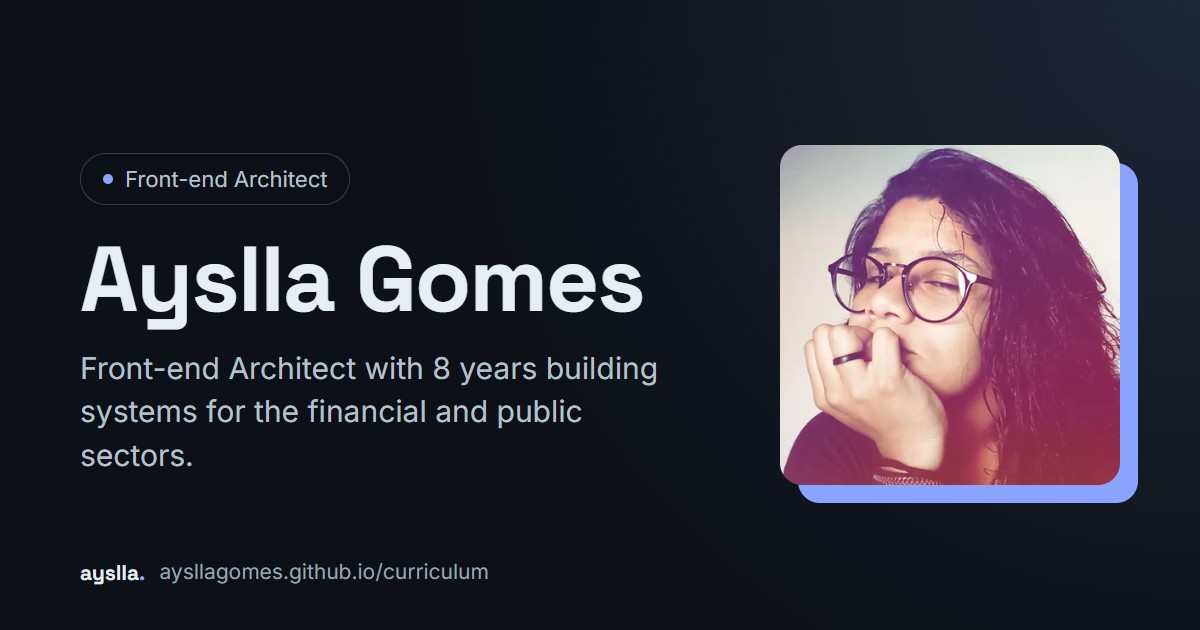
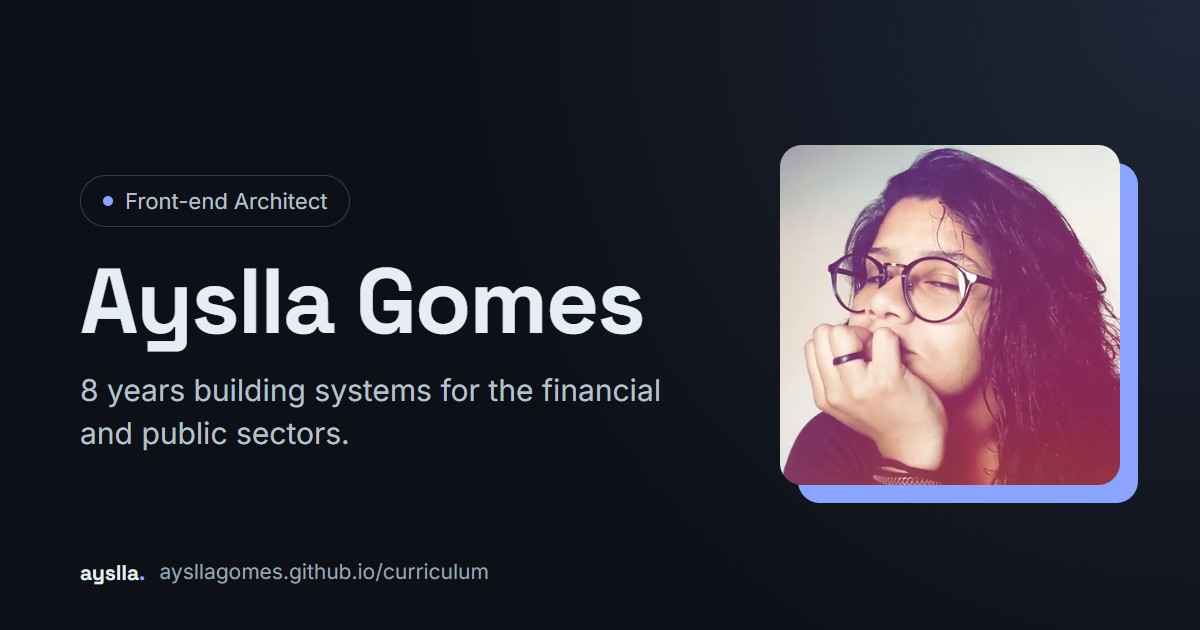
Abertura sem repetir o cargo: "8 anos construindo sistemas…"
O cargo já aparece no selo logo acima (e no título da página); a frase
agora começa pelos anos, nos 4 idiomas. Imagens de prévia geradas de
novo. PLANO.md: Cloudflare Images e branches antigas conferidos.

Changed region(s): [[0.0617, 0.3921, 0.555, 0.754], [0.0617, 0.2714, 0.2775, 0.3317]]

diff --git a/src/app/pages/curriculum/curriculum.component.spec.ts b/src/app/pages/curriculum/curriculum.component.spec.ts
@@ -68,7 +68,7 @@ describe('CurriculumComponent (página completa)', () => {
         const site = 'https://aysllagomes.github.io/curriculum/';
 
         expect(og('title')).toBe('Ayslla Gomes · Arquitecta Front-end');
-        expect(og('description')).toMatch(/^Arquitecta Front-end con \d+ años .+ Angular, microfrontends, Java y Node\.js\.$/);
+        expect(og('description')).toMatch(/^\d+ años construyendo sistemas .+ Angular, microfrontends, Java y Node\.js\.$/);
         expect(og('url')).toBe(`${site}es/`);
         expect(og('image')).toBe(`${site}assets/og/es.jpg`);
         expect(og('locale')).toBe('es_ES');
@@ -85,7 +85,7 @@ describe('CurriculumComponent (página completa)', () => {
         await render();
         expect(document.documentElement.lang).toBe('pt-BR');
         expect(document.title).toBe('Ayslla Gomes · Arquiteta Front-end');
-        expect(document.querySelector('meta[name="description"]')?.getAttribute('content')).toMatch(/^Arquiteta Front-end com \d+ anos construindo sistemas/);
+        expect(document.querySelector('meta[name="description"]')?.getAttribute('content')).toMatch(/^\d+ anos construindo sistemas/);
     });
 
     it.each(['pt-BR', 'en', 'es', 'it'] as const)('descrição da página em %s com 100 a 160 caracteres (LinkedIn e Google)', async (locale) => {

diff --git a/src/app/data/it.ts b/src/app/data/it.ts
@@ -13,7 +13,7 @@ export const RESUME_IT: Resume = {
     profile: {
         ...PT.profile,
         role: 'Architetta Front-end',
-        headline: 'Architetta Front-end con {anos} anni di esperienza nella costruzione di sistemi per il settore finanziario e pubblico.',
+        headline: '{anos} anni di esperienza nella costruzione di sistemi per il settore finanziario e pubblico.',
         focus: 'Angular, microfrontend, Java e Node.js.',
         summary: 'In Mirante Tecnologia, per Sicoob, ho guidato il passaggio da un front-end monolitico ai microfrontend e definisco '
             + 'l\'architettura front-end del percorso carte, supportando i team che lo utilizzano. In precedenza ho lavorato cinque anni '

diff --git a/src/app/data/pt-BR.ts b/src/app/data/pt-BR.ts
@@ -12,7 +12,7 @@ export const RESUME_PT_BR: Resume = {
         name: 'Ayslla Caroline Prates Gomes',
         shortName: 'Ayslla Gomes',
         role: 'Arquiteta Front-end',
-        headline: 'Arquiteta Front-end com {anos} anos construindo sistemas para o setor financeiro e público.',
+        headline: '{anos} anos construindo sistemas para o setor financeiro e público.',
         focus: 'Angular, microfrontends, Java e Node.js.',
         summary: 'Na Mirante Tecnologia, atendendo o Sicoob, conduzi a saída de um front monolítico para microfrontends e defino '
             + 'a arquitetura de front da jornada de cartões, orientando as squads que a usam. Antes, passei cinco anos no Spid, '

diff --git a/src/app/data/es.ts b/src/app/data/es.ts
@@ -13,7 +13,7 @@ export const RESUME_ES: Resume = {
     profile: {
         ...PT.profile,
         role: 'Arquitecta Front-end',
-        headline: 'Arquitecta Front-end con {anos} años construyendo sistemas para el sector financiero y público.',
+        headline: '{anos} años construyendo sistemas para el sector financiero y público.',
         focus: 'Angular, microfrontends, Java y Node.js.',
         summary: 'En Mirante Tecnologia, atendiendo a Sicoob, conduje la transición de un front-end monolítico a microfrontends '
             + 'y defino la arquitectura front-end del flujo de tarjetas, orientando a los squads que lo utilizan. Antes, pasé cinco años '

diff --git a/src/app/data/en.ts b/src/app/data/en.ts
@@ -13,7 +13,7 @@ export const RESUME_EN: Resume = {
     profile: {
         ...PT.profile,
         role: 'Front-end Architect',
-        headline: 'Front-end Architect with {anos} years building systems for the financial and public sectors.',
+        headline: '{anos} years building systems for the financial and public sectors.',
         focus: 'Angular, microfrontends, Java and Node.js.',
         summary: 'At Mirante Tecnologia, serving Sicoob, I led the move from a monolithic front end to microfrontends and define '
             + 'the front-end architecture of the card journey, guiding the squads that use it. Before that, I spent five years on Spid, '

diff --git a/src/app/pages/hero/hero.component.spec.ts b/src/app/pages/hero/hero.component.spec.ts
@@ -16,7 +16,9 @@ describe('HeroComponent', () => {
     it('a abertura traz os anos de experiência calculados, nunca o marcador {anos}', async () => {
         const headline = (await render()).querySelector('.headline')?.textContent ?? '';
 
-        expect(headline).toMatch(/^Arquiteta Front-end com \d+ anos /);
+        expect(headline).toMatch(/^\d+ anos construindo sistemas /);
+        // O cargo já está no selo logo acima: a frase não o repete
+        expect(headline).not.toContain('Arquiteta');
         expect(headline).not.toContain('{anos}');
     });
 

diff --git a/PLANO.md b/PLANO.md
@@ -37,10 +37,10 @@ Diagnóstico de origem: análise com o `repo-inspector` (MCP) + leitura do códi
 - [x] Build também em pull requests
 - [x] Trocar a origem do Pages para "GitHub Actions" (Settings → Pages)
 - [x] Primeiro deploy pelo workflow (PR #3): build 61 s + deploy 10 s; site servido pelo artefato do Actions
-- [~] Apagar a branch `gh-pages` abandonada e as branches `melhorias/entrega-1`/`-2` já mergeadas
+- [x] Branches antigas apagadas; no GitHub só a `main` (18/11/2026)
 
 ## Infraestrutura (para depois — a autora faz)
-- [ ] Apagar as 7 imagens antigas do Cloudflare Images (painel → Images/Media → Hosted images) e, se houver, cancelar a assinatura do Images em Billing → Subscriptions
+- [x] Cloudflare Images: plano gratuito, sem imagens armazenadas e sem assinatura (conferido pela autora em 18/11/2026)
 - [ ] Registrar/usar um domínio próprio com DNS na Cloudflare (único custo: o registro, ~R$ 40/ano `.com.br`)
 - [ ] Conectar o bucket R2 ao domínio (ex.: `img.dominio`) e desativar o acesso `r2.dev`; trocar o prefixo das URLs no código
 - [ ] Opcional: domínio próprio também para o site no GitHub Pages (`base-href` passa de `/curriculum/` para `/`)
